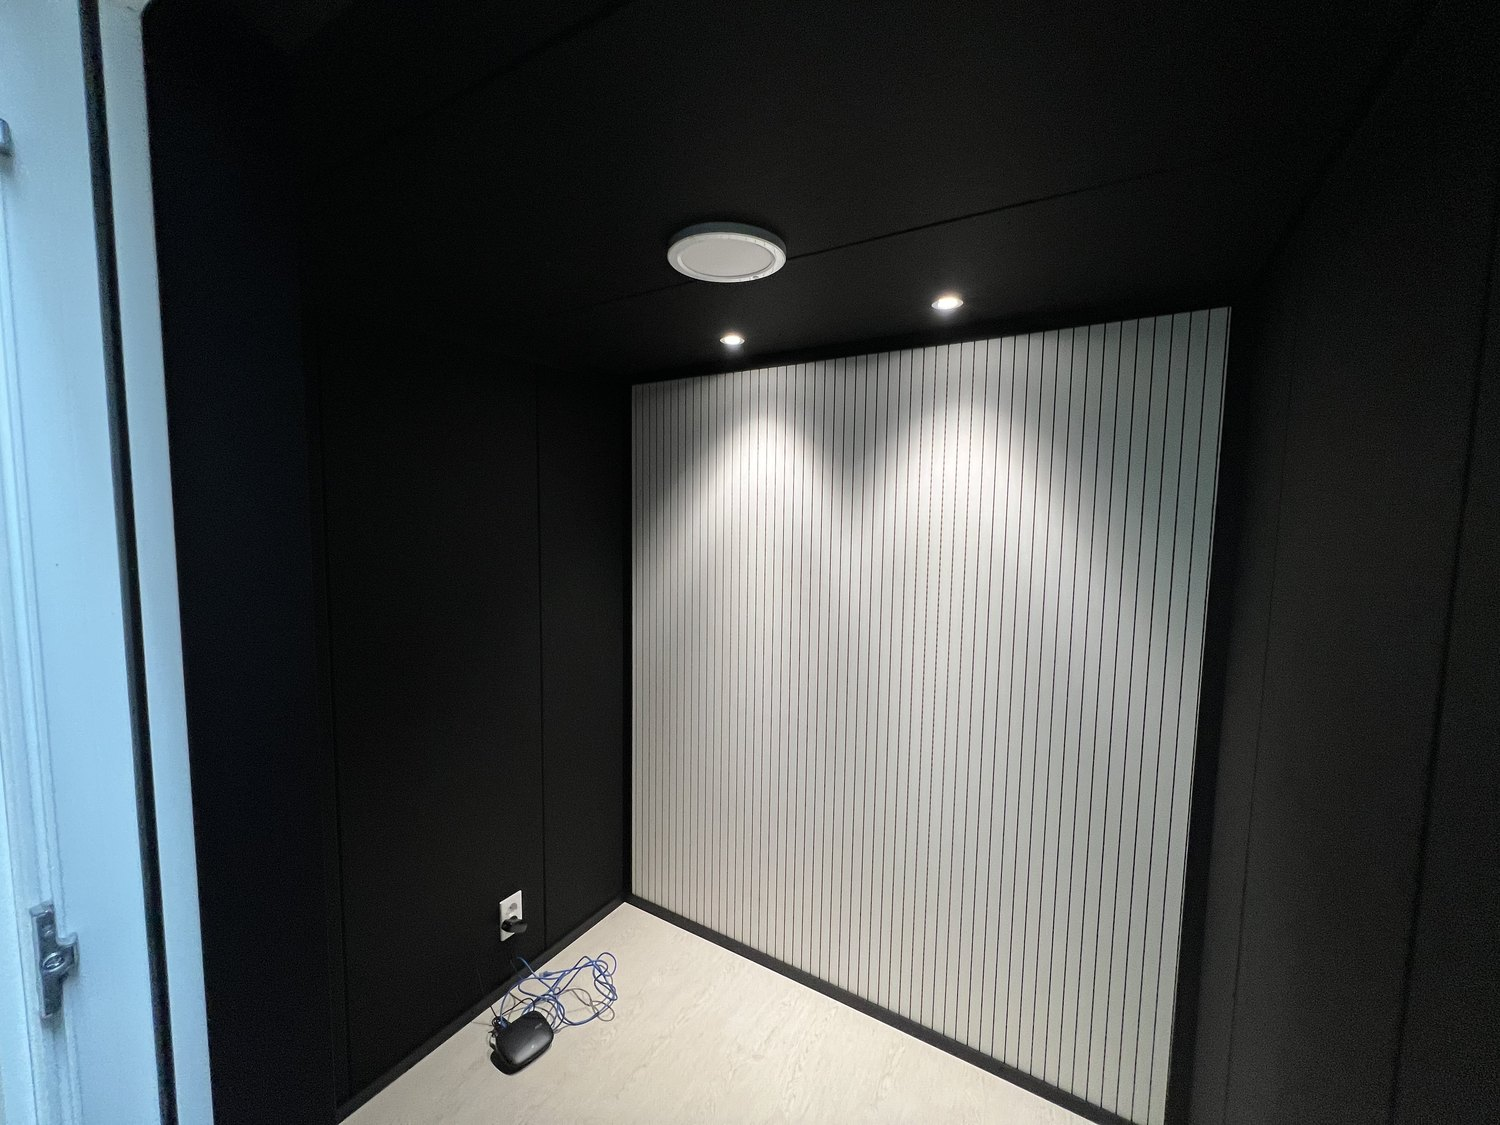
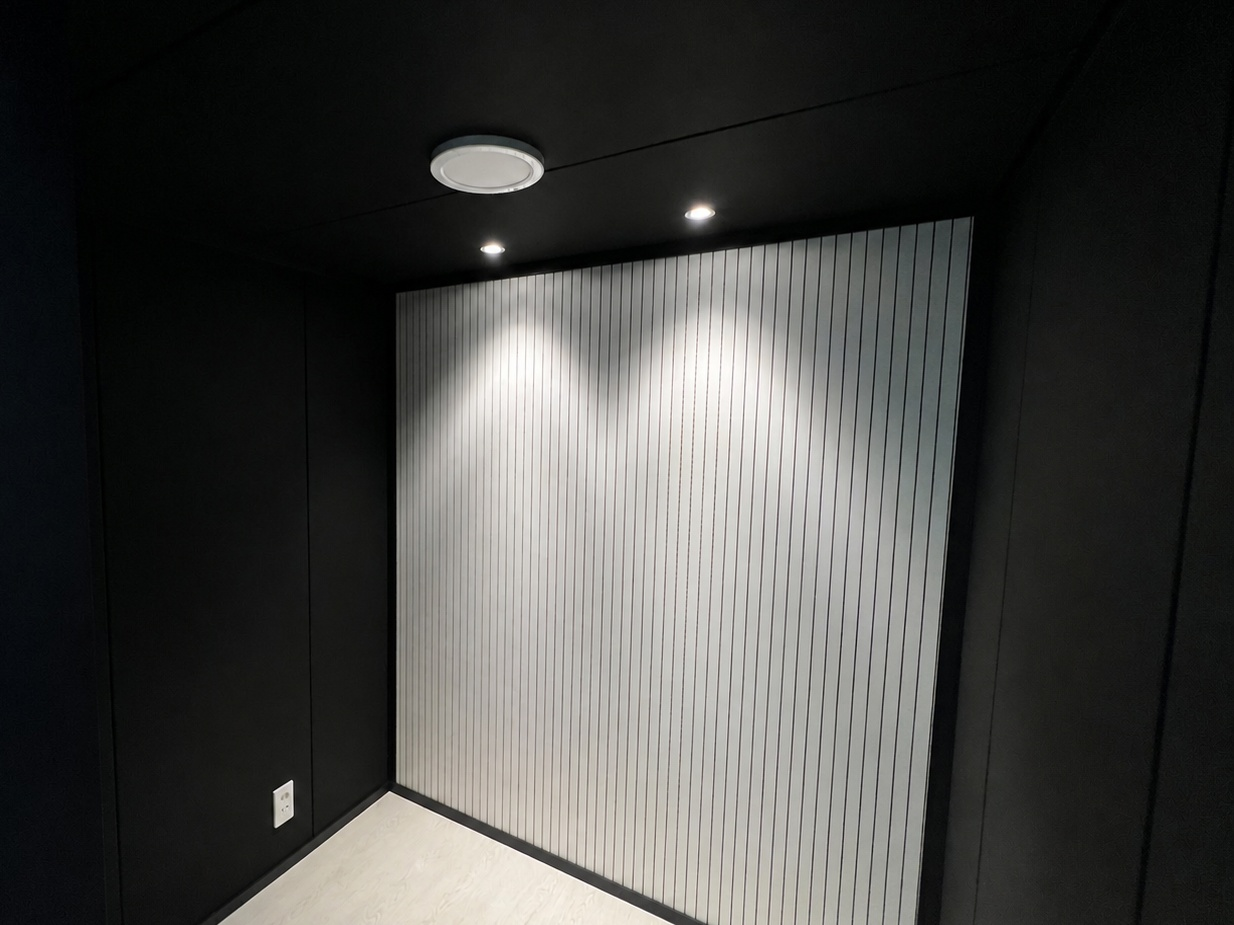
Replace hero slide 3 with the cleaned black-and-white booth interior photo

diff --git a/index.html b/index.html
@@ -1073,7 +1073,7 @@
           <img src="assets/studio-cob-mood.jpg" alt="음악 스튜디오 부스 내부. 연베이지 아트보드 세 면과 메이플 톤 라인타공 한 면, COB 매립등 아래 피아노와 바이올린." loading="lazy" decoding="async">
         </figure>
         <figure class="hero-slide" aria-hidden="true">
-          <img src="assets/clinic-interior-window.jpg" alt="청력검사실 부스 내부. 베이지 아트보드와 검사시창 너머로 또 하나의 방이 보이는 2실 구성." loading="lazy" decoding="async">
+          <img src="assets/interior-door.jpg?v=2" alt="블랙 아트보드 세 면과 화이트 라인타공 한 면, COB 매립등으로 마감한 모던 부스 내부." loading="lazy" decoding="async">
         </figure>
         <figure class="hero-slide" aria-hidden="true">
           <img src="assets/clinic-interior-cob.jpg" alt="청력검사실 내부 디테일. 화이트 라인타공 한 면과 COB 매립등 2구, 베이지 아트보드 마감." loading="lazy" decoding="async">
@@ -1127,7 +1127,7 @@
 
         <div class="grid-3" style="margin-top:clamp(30px,4vw,44px)">
           <figure class="shot rv">
-            <div class="ph"><span class="badge">신규 설치</span><img src="assets/interior-door.jpg" alt="천안 아파트 방송용 부스 내부. 세 면은 차콜 아트보드, 한 면은 흰 라인타공, 매립 조명." loading="lazy"></div>
+            <div class="ph"><span class="badge">신규 설치</span><img src="assets/interior-door.jpg?v=2" alt="천안 아파트 방송용 부스 내부. 세 면은 차콜 아트보드, 한 면은 흰 라인타공, 매립 조명." loading="lazy"></div>
             <figcaption><b>천안 아파트 · 방송용</b><span>세 면은 차콜 아트보드, 한 면은 흰 라인타공. 조명을 켜면 대비가 살아납니다.</span></figcaption>
           </figure>
 
@@ -1569,7 +1569,7 @@
           </figure>
 
           <figure class="shot rv" data-kind="new">
-            <div class="ph"><span class="badge">신규 설치</span><img src="assets/interior-door.jpg" alt="천안 아파트 방송용 부스 내부. 세 면은 차콜 아트보드, 한 면은 흰 라인타공, 매립 조명." loading="lazy"></div>
+            <div class="ph"><span class="badge">신규 설치</span><img src="assets/interior-door.jpg?v=2" alt="천안 아파트 방송용 부스 내부. 세 면은 차콜 아트보드, 한 면은 흰 라인타공, 매립 조명." loading="lazy"></div>
             <figcaption><b>천안 아파트 · 방송용</b><span>차콜 아트보드 세 면과 흰 라인타공 한 면, COB 매립등.</span></figcaption>
           </figure>
 
